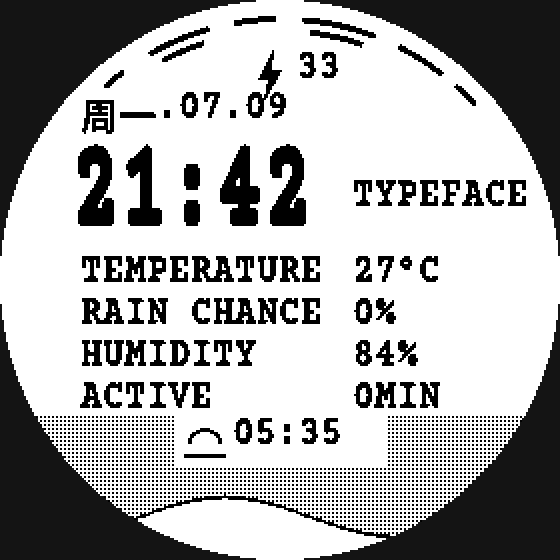
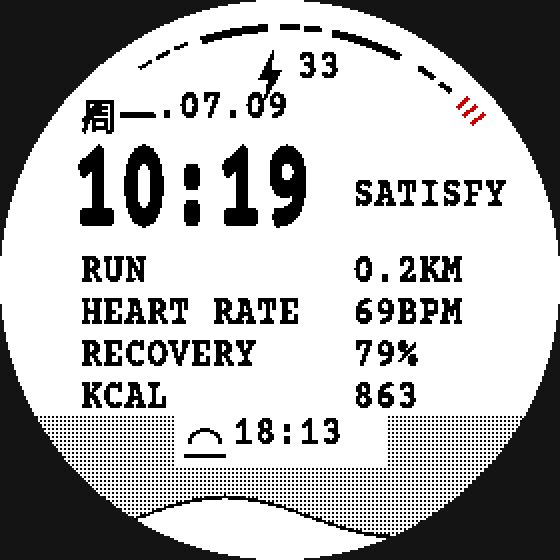
Match the SATISFY x COROS layout: RUN / HEART RATE / RECOVERY / KCAL rows, new top scale
- Rows now show today's distance, heart rate, Body Battery and calories
- Right label is SATISFY
- Top scale redrawn as heavy/tiny dash sequence with red ticks at the right end
- Bottom shows next sun event (sunrise before dawn, sunset during the day)
- preview.py: fix mirrored arc angles, mirror the new layout

diff --git a/preview.py b/preview.py
@@ -70,16 +70,25 @@ scx, scy = 140, BAND_Y + 12
 d.rectangle([scx - 52, scy - 14, scx + 52, scy + 12], fill=(255, 255, 255, 255))
 d.arc([scx - 46, scy - 6, scx - 30, scy + 8], 180, 360, fill=(0, 0, 0, 255), width=2)
 d.line([scx - 48, scy + 7, scx - 28, scy + 7], fill=(0, 0, 0, 255), width=2)
-draw_text(img, ftext, scx - 24, scy - 15, "05:35")
+draw_text(img, ftext, scx - 24, scy - 15, "18:13")
 
-# top dashes: irregular lengths, two doubled
-dashes = [(48, 5), (60, 14), (80, 9), (95, 16), (117, 11), (132, 6)]
-for i, (a0, ln) in enumerate(dashes):
-    d.arc([CX - 132, CY - 132, CX + 132, CY + 132], 180 + a0, 180 + a0 + ln,
-          fill=(0, 0, 0, 255), width=3)
-    if i in (1, 3):
-        d.arc([CX - 126, CY - 126, CX + 126, CY + 126], 180 + a0 + 2, 180 + a0 + ln - 2,
-              fill=(0, 0, 0, 255), width=3)
+# top scale (mirrors DASHES in TypeFaceView.mc; Garmin deg -> PIL deg is 360-a)
+DASH_R = 128
+dashes = [
+    (136.0, 5.0, 4),
+    (120.5, 3.0, 2), (116.0, 3.0, 2), (111.5, 3.0, 2),
+    (93.0, 15.0, 4),
+    (86.0, 4.0, 3), (81.0, 3.5, 3),
+    (62.0, 16.0, 4),
+    (53.0, 4.0, 3), (48.0, 3.0, 3),
+]
+for a0, ln, pw in dashes:
+    d.arc([CX - DASH_R, CY - DASH_R, CX + DASH_R, CY + DASH_R],
+          360 - (a0 + ln), 360 - a0, fill=(0, 0, 0, 255), width=pw)
+for a in (39.0, 41.5, 44.0):  # red ticks, right end
+    c, sn = math.cos(math.radians(a)), math.sin(math.radians(a))
+    d.line([(CX + (DASH_R - 4) * c, CY - (DASH_R - 4) * sn),
+            (CX + (DASH_R + 4) * c, CY - (DASH_R + 4) * sn)], fill=(200, 0, 0, 255), width=2)
 
 # battery
 draw_text(img, ftext, CX + 8, BATT_Y, "33")
@@ -89,12 +98,12 @@ d.polygon([(bx, by - 12), (bx - 7, by + 2), (bx - 2, by + 2), (bx - 4, by + 12),
 
 # date, time, label
 draw_text(img, ftext, LABEL_X, DATE_Y, "周一.07.09")
-draw_text(img, ftime, LABEL_X - 4, TIME_Y, "21:42")
-draw_text(img, ftext, COL2_X, SAT_Y, "TYPEFACE")
+draw_text(img, ftime, LABEL_X - 4, TIME_Y, "10:19")
+draw_text(img, ftext, COL2_X, SAT_Y, "SATISFY")
 
 # rows
-for i, (s, v) in enumerate([("TEMPERATURE", "27°C"), ("RAIN CHANCE", "0%"),
-                            ("HUMIDITY", "84%"), ("ACTIVE", "0MIN")]):
+for i, (s, v) in enumerate([("RUN", "0.2KM"), ("HEART RATE", "69BPM"),
+                            ("RECOVERY", "79%"), ("KCAL", "863")]):
     draw_text(img, ftext, LABEL_X, ROW_Y[i], s)
     draw_text(img, ftext, COL2_X, ROW_Y[i], v)
 

diff --git a/README.md b/README.md
@@ -10,10 +10,10 @@ SATISFY × COROS APEX 4 exclusive watch faces and recreating that feel on Garmin
 ## Features
 
 - Heavy condensed typewriter time display (Courier Prime, bitmap-rendered for crisp 1-bit MIP output)
-- Environment data rows: temperature, rain chance, humidity (Garmin Weather API) and daily active minutes
+- Data rows, SATISFY style: RUN (today's distance), HEART RATE, RECOVERY (Body Battery), KCAL
 - Chinese weekday date (周一.07.09 style), battery with bolt icon
-- Distressed dashed scale along the top arc
-- Dot-grid halftone band with hill silhouette and sunrise time at the bottom
+- Distressed dashed scale along the top arc, with three red ticks at the right end
+- Dot-grid halftone band with hill silhouette and next sun event (sunrise / sunset) at the bottom
 
 ## Build & install
 
@@ -21,7 +21,7 @@ SATISFY × COROS APEX 4 exclusive watch faces and recreating that feel on Garmin
 2. Run `Monkey C: Install SDK` (installs the Connect IQ SDK and device files) and
    `Monkey C: Generate a Developer Key` (first time only)
 3. Open this folder, press **F5** and pick `fenix7xpro` to run in the simulator
-   - Weather rows show `--` until you feed data via *Simulation → Weather*
+   - The sun time shows `--:--` until you feed data via *Simulation → Weather*
 4. `Monkey C: Build for Device` → copy the generated `.prg` to `GARMIN/Apps/`
    on the watch in USB mass-storage mode
 
@@ -31,7 +31,8 @@ Other resolutions need the layout constants adjusted.
 ## Customization
 
 All layout lives in `source/TypeFaceView.mc` as constants at the top of the class
-(coordinates, row positions, the `LABEL` text in the right column).
+(coordinates, row positions, the `LABEL` text in the right column, the `DASHES` list
+for the top scale).
 
 Two helper scripts (Python 3 + Pillow, `pip install Pillow`):
 
@@ -48,9 +49,12 @@ Two helper scripts (Python 3 + Pillow, `pip install Pillow`):
 
 ## Data notes
 
-- Weather rows require the watch to have synced weather via the phone; otherwise `--`
-- RECOVERY-style metrics (training load, recovery time) are not exposed to
-  third-party watch faces by Garmin, which is why this face sticks to weather + activity
+- RUN is today's total distance from the activity monitor; HEART RATE is the live
+  sensor value if available, otherwise the newest history sample
+- RECOVERY shows Garmin Body Battery (0-100). COROS-style recovery / training load
+  numbers are not exposed to third-party watch faces by Garmin, so this is the closest match
+- The sun row needs weather synced from the phone; otherwise `--:--`
+- The red ticks on the top scale can be turned off with `SHOW_RED_TICKS` in the view
 
 ## License
 
